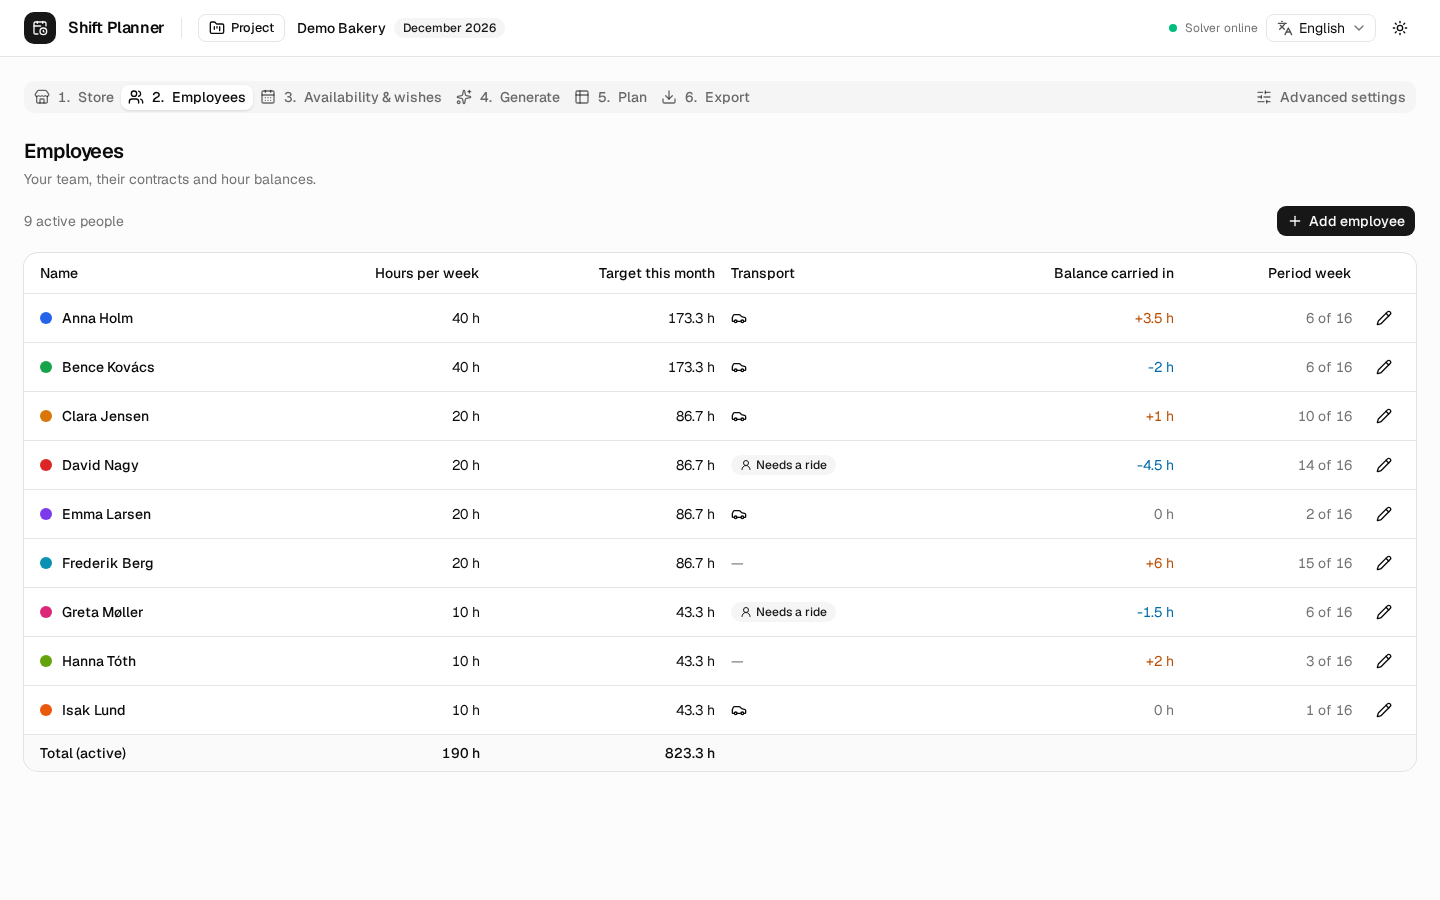
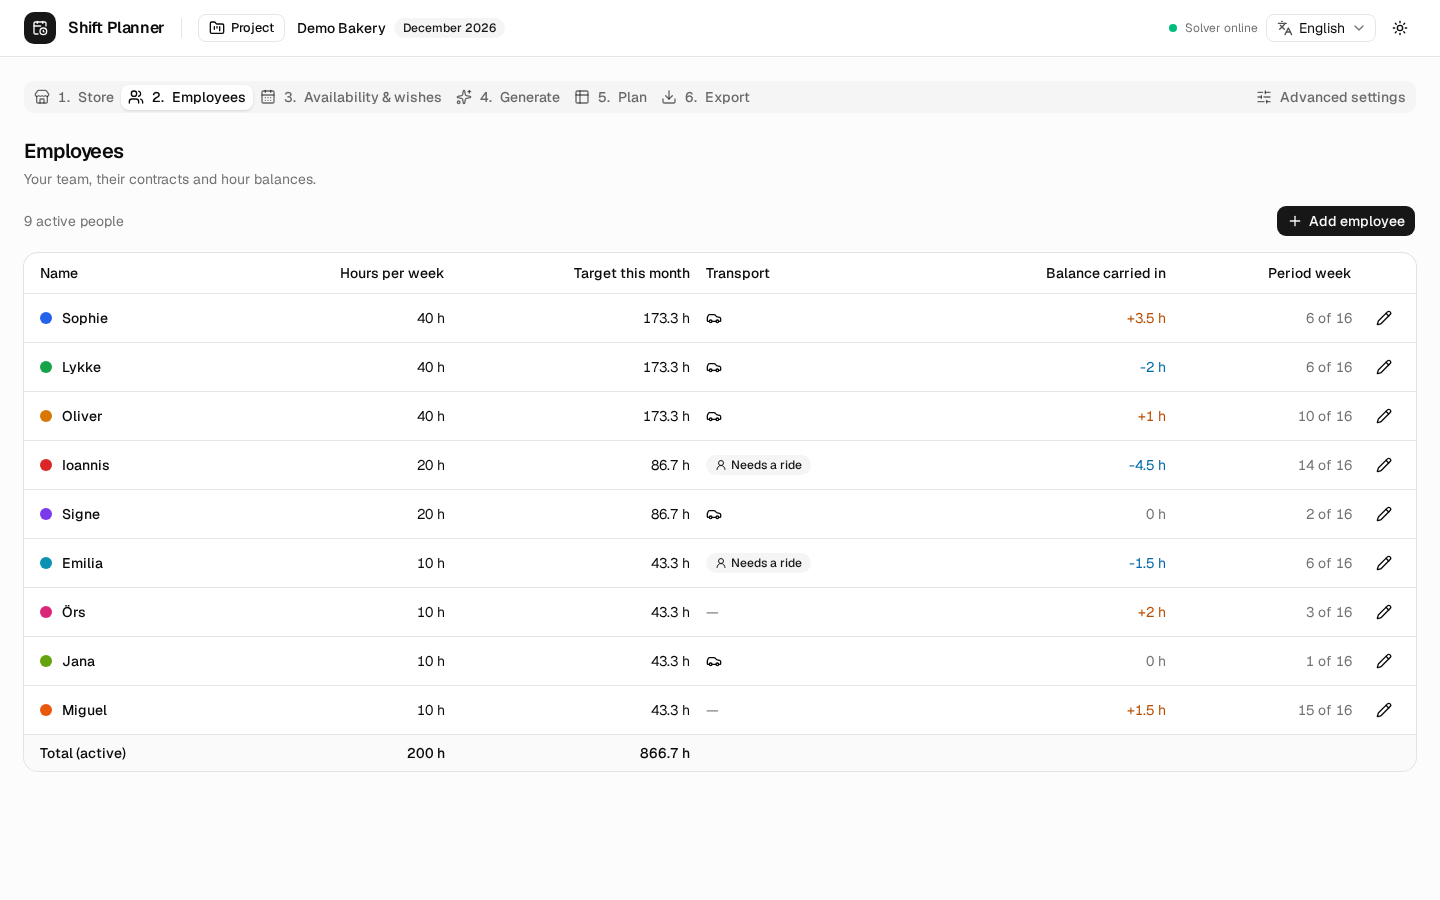
feat(demo): new demo team (#16)
* feat(demo): new demo team of 3 full-timers, 2 part-timers and 4 students

Sophie, Lykke and Oliver (40 h), Ioannis and Signe (20 h), Emilia, Örs,
Jana and Miguel (10 h). Ioannis and Emilia need rides to early shifts.

* test(e2e): follow the new demo team; stop hard-coding the demo month

* docs: describe the new demo team, refresh screenshots

---------

diff --git a/frontend/e2e/smoke.spec.ts b/frontend/e2e/smoke.spec.ts
@@ -120,7 +120,7 @@ test('generates a plan for the demo team', async ({ page }) => {
   await page.getByRole('tab', { name: /Generate/ }).click()
   await page.getByRole('button', { name: 'Generate plan' }).click()
   await expect(page.getByText(/^(Best possible|Good) plan found$/)).toBeVisible({ timeout: 60_000 })
-  await expect(page.getByRole('table', { name: 'Hours per person' })).toContainText('Anna Holm')
+  await expect(page.getByRole('table', { name: 'Hours per person' })).toContainText('Sophie')
   await expect(page.getByRole('button', { name: 'Generate again' })).toBeVisible()
 })
 
@@ -160,7 +160,7 @@ test('edit the plan by hand with live checks, undo, and keep edits when re-gener
 
   await page.getByRole('tab', { name: /Plan/ }).click()
   const grid = page.getByRole('grid', { name: 'Shift plan' })
-  const cell = grid.getByRole('gridcell', { name: /^Anna Holm, \w+, Dec 3\./ })
+  const cell = grid.getByRole('gridcell', { name: /^Sophie, \w+, \w+ 3\./ })
   await cell.click()
   await page.getByLabel('Start').fill('06:00')
   await page.getByLabel('End').fill('17:00') // 11 h: longer than the 8 h maximum
@@ -212,7 +212,7 @@ test('exports the plan as .ods, .xlsx and a printable A4 page', async ({ page })
   await expect(page.getByTestId('print-view')).toBeHidden()
   await page.emulateMedia({ media: 'print' })
   await expect(page.getByTestId('print-view')).toBeVisible()
-  await expect(page.getByTestId('print-view')).toContainText('Anna Holm')
+  await expect(page.getByTestId('print-view')).toContainText('Sophie')
   const pdf = await page.pdf({ preferCSSPageSize: true })
   expect(pdf.subarray(0, 4).toString()).toBe('%PDF')
 })
@@ -246,7 +246,7 @@ test('starts the next month with the same team', async ({ page }) => {
 
   await expect(badge).not.toHaveText(before)
   await page.getByRole('tab', { name: /Employees/ }).click()
-  await expect(page.getByText('Anna Holm')).toBeVisible()
-  // Anna's balancing period moved on from week 6.
-  await expect(page.getByRole('row', { name: /Anna Holm/ })).not.toContainText('6 of 16')
+  await expect(page.getByText('Sophie', { exact: true })).toBeVisible()
+  // Sophie's balancing period moved on from week 6.
+  await expect(page.getByRole('row', { name: /Sophie/ })).not.toContainText('6 of 16')
 })

diff --git a/frontend/e2e/a11y.spec.ts b/frontend/e2e/a11y.spec.ts
@@ -39,7 +39,7 @@ for (const scheme of ['light', 'dark'] as const) {
 
     // Richer states: dialogs, a generated plan and its grid.
     await page.getByRole('tab', { name: /Employees/ }).click()
-    await page.getByRole('button', { name: 'Edit Anna Holm' }).click()
+    await page.getByRole('button', { name: 'Edit Sophie' }).click()
     await page.getByRole('dialog').waitFor()
     await audit(page, 'employee drawer')
     await page.keyboard.press('Escape')

diff --git a/backend/src/shift_planner/domain/factory.py b/backend/src/shift_planner/domain/factory.py
@@ -42,7 +42,8 @@ def new_project(month: str) -> Project:
 
 
 def demo_project(month: str) -> Project:
-    """A realistic, fictional team: 2 full-timers, 4 part-timers and 3 student workers."""
+    """A fictional team: 3 full-timers (40 h), 2 part-timers (20 h) and 4 student workers
+    (10 h). Some have no car; Ioannis and Emilia need a ride to early shifts."""
     year, mon = parse_month(month)
     last_day = monthrange(year, mon)[1]
 
@@ -51,15 +52,15 @@ def demo_project(month: str) -> Project:
 
     # (name, weekly hours, has car, needs ride early, carry-in, week of balancing period)
     team = [
-        ("Anna Holm", 40, True, False, 3.5, 6),
-        ("Bence Kovács", 40, True, False, -2.0, 6),
-        ("Clara Jensen", 20, True, False, 1.0, 10),
-        ("David Nagy", 20, False, True, -4.5, 14),
-        ("Emma Larsen", 20, True, False, 0.0, 2),
-        ("Frederik Berg", 20, False, False, 6.0, 15),
-        ("Greta Møller", 10, False, True, -1.5, 6),
-        ("Hanna Tóth", 10, False, False, 2.0, 3),
-        ("Isak Lund", 10, True, False, 0.0, 1),
+        ("Sophie", 40, True, False, 3.5, 6),
+        ("Lykke", 40, True, False, -2.0, 6),
+        ("Oliver", 40, True, False, 1.0, 10),
+        ("Ioannis", 20, False, True, -4.5, 14),
+        ("Signe", 20, True, False, 0.0, 2),
+        ("Emilia", 10, False, True, -1.5, 6),
+        ("Örs", 10, False, False, 2.0, 3),
+        ("Jana", 10, True, False, 0.0, 1),
+        ("Miguel", 10, False, False, 1.5, 15),
     ]
     employees = [
         Employee(
@@ -73,7 +74,7 @@ def demo_project(month: str) -> Project:
         )
         for i, (name, hours, car, ride, carry, week) in enumerate(team)
     ]
-    by_name = {e.name.split()[0]: e.id for e in employees}
+    by_name = {e.name: e.id for e in employees}
 
     def entry(
         who: str, kind: AvailabilityKind, pattern: AvailabilityPattern, note: str = ""
@@ -83,21 +84,21 @@ def demo_project(month: str) -> Project:
         )
 
     availability = [
-        entry("Bence", "unavailable", SingleDatePattern.model_validate({"date": day(5)})),
+        entry("Lykke", "unavailable", SingleDatePattern.model_validate({"date": day(5)})),
         entry(
-            "Clara",
+            "Oliver",
             "unavailable",
             DateRangePattern.model_validate({"startDate": day(10), "endDate": day(16)}),
             "Vacation",
         ),
-        entry("Greta", "unavailable", WeeklyPattern(weekday=0, start="16:00"), "Evening class"),
-        entry("Hanna", "unavailable", WeeklyPattern(weekday=1), "University"),
-        entry("Hanna", "unavailable", WeeklyPattern(weekday=3), "University"),
-        entry("Isak", "unavailable", WeeklyPattern(weekday=2, start="08:00", end="15:00")),
-        entry("David", "wish_off", SingleDatePattern.model_validate({"date": day(20)})),
-        entry("Anna", "wish_off", SingleDatePattern.model_validate({"date": day(24)})),
-        entry("Frederik", "wish_off", WeeklyPattern(weekday=6)),
-        entry("Emma", "wish_work", WeeklyPattern(weekday=5)),
+        entry("Emilia", "unavailable", WeeklyPattern(weekday=0, start="16:00"), "Evening class"),
+        entry("Örs", "unavailable", WeeklyPattern(weekday=1), "University"),
+        entry("Örs", "unavailable", WeeklyPattern(weekday=3), "University"),
+        entry("Jana", "unavailable", WeeklyPattern(weekday=2, start="08:00", end="15:00")),
+        entry("Ioannis", "wish_off", SingleDatePattern.model_validate({"date": day(20)})),
+        entry("Sophie", "wish_off", SingleDatePattern.model_validate({"date": day(24)})),
+        entry("Miguel", "wish_off", WeeklyPattern(weekday=6)),
+        entry("Signe", "wish_work", WeeklyPattern(weekday=5)),
     ]
 
     store = StoreSettings(

diff --git a/backend/tests/test_factory.py b/backend/tests/test_factory.py
@@ -24,7 +24,21 @@ def test_demo_project_is_valid_for_any_month(month: str) -> None:
 def test_demo_team_composition() -> None:
     project = demo_project("2027-02")
     hours = Counter(e.contract_hours_per_week for e in project.employees)
-    assert hours == {40: 2, 20: 4, 10: 3}
+    assert hours == {40: 3, 20: 2, 10: 4}
+    names = [e.name for e in project.employees]
+    assert names == [
+        "Sophie",
+        "Lykke",
+        "Oliver",
+        "Ioannis",
+        "Signe",
+        "Emilia",
+        "Örs",
+        "Jana",
+        "Miguel",
+    ]
+    riders = {e.name for e in project.employees if e.needs_ride_early}
+    assert riders == {"Ioannis", "Emilia"}
     assert any(not e.has_car for e in project.employees)
     assert any(e.needs_ride_early for e in project.employees)
     kinds = {a.kind for a in project.availability}

diff --git a/README.md b/README.md
@@ -25,7 +25,8 @@ cd shift-planner
 docker compose up --build
 ```
 
-Open <http://localhost:8080> and click **Load demo project** to try it with a fictional team of nine. To use another
+Open <http://localhost:8080> and click **Load demo project** to try it with a fictional team of nine: three full-timers
+(Sophie, Lykke, Oliver), two part-timers (Ioannis, Signe) and four students (Emilia, Örs, Jana, Miguel). To use another
 port, set it first: `FRONTEND_PORT=9000 docker compose up`.
 
 ## Using Shift Planner
@@ -215,7 +216,7 @@ but only accepts plans that are at least as good on goals 1–3. Tie-breakers ne
 **If the rules can't all be met**, you get both:
 
 - **Diagnostics:** fast pre-checks, shown on the Generate step before you generate. For example: *"Sat 14 Feb:
-  too few people available at opening, 06:00 (available: 1, needed: 2). Unavailable: Bence."* **Errors** are certain
+  too few people available at opening, 06:00 (available: 1, needed: 2). Unavailable: Lykke."* **Errors** are certain
   impossibilities, and **warnings** are likely trouble. The checks cover:
   - people available at opening, at closing, in busy periods and at every moment
   - head count for long days
